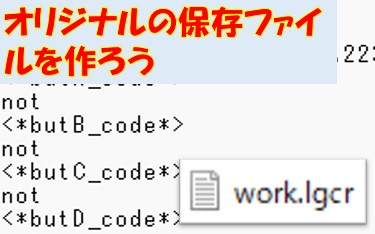
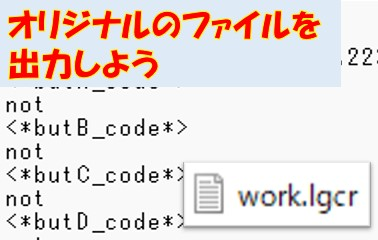
fix:blog8のタイトル修正

diff --git a/html/blog/blogMenu.html b/html/blog/blogMenu.html
@@ -82,7 +82,7 @@
         <a href="blog8.html" target="_top" style="text-decoration:none;"><!--横のメニュー1ブロック-->
           <div class="con">
             <div>
-              <p style="margin: 0 1vw 0 1vw;padding: 0;font-weight: bold;font-size: 5vw;margin-top:auto;margin-bottom:auto;color:#000000;">オリジナルの保存ファイルを作ろう</p>
+              <p style="margin: 0 1vw 0 1vw;padding: 0;font-weight: bold;font-size: 5vw;margin-top:auto;margin-bottom:auto;color:#000000;">オリジナルのファイルを出力しよう</p>
               <p style="margin: 0 1vw 0 1vw;padding: 0;font-weight: bold;font-size: 4vw;margin-top:auto;margin-bottom:auto;color:#aaaaaa">2025/02/01</p>
             </div>
             <img src="../../img/blog/blog8/p1.jpg" alt="" style="width: 40%;display:block;margin:auto;">

diff --git a/html/blog/blog8.html b/html/blog/blog8.html
@@ -22,7 +22,7 @@
       <div class="top" style="width:70vw">
         <div class="newblog">
           <img src="../../img/blog/blog8/p1.jpg" alt="" style="width: 90%;display:block;margin:auto;margin: 0 0 0 20px;">
-          <p class="title">オリジナルの保存ファイルを作ろう</p>
+          <p class="title">オリジナルのファイルを出力しよう</p>
           <p class="day">2025/0201　🖊たびと</p>
           <br>
           <p class="subtitle">
